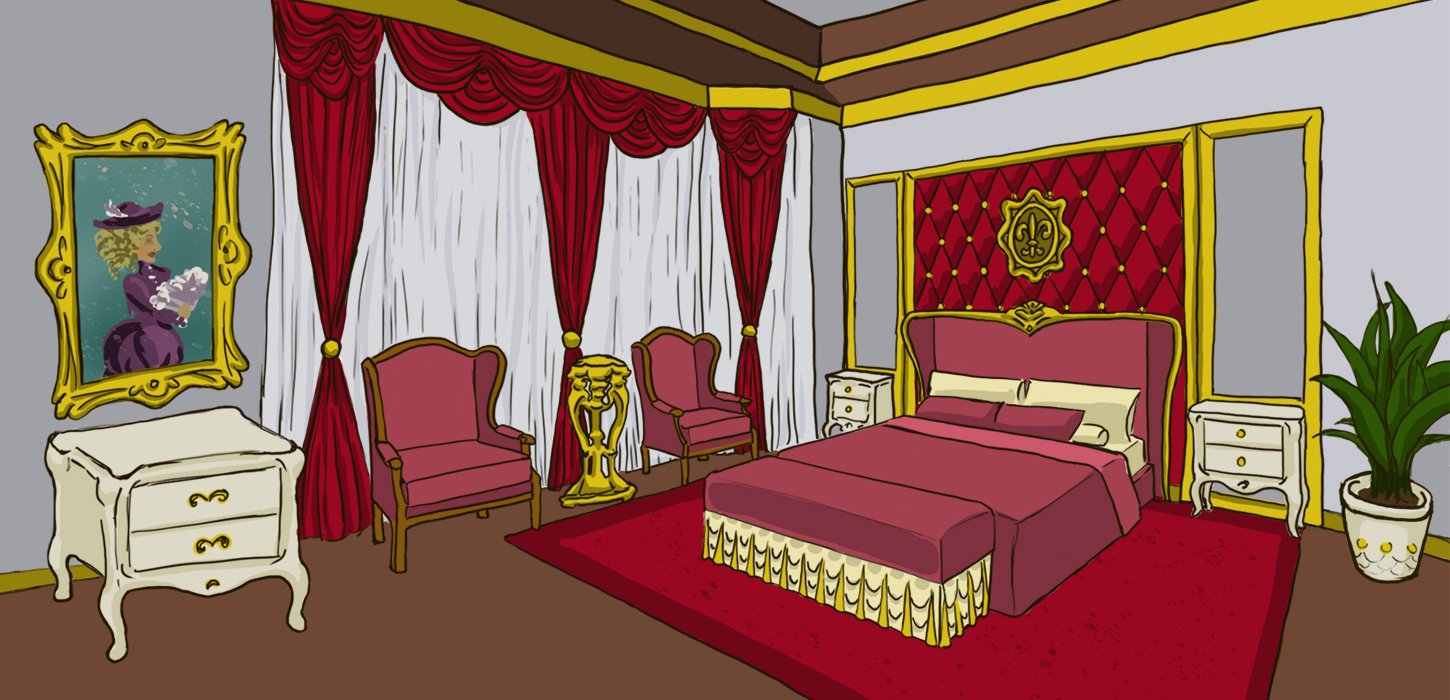
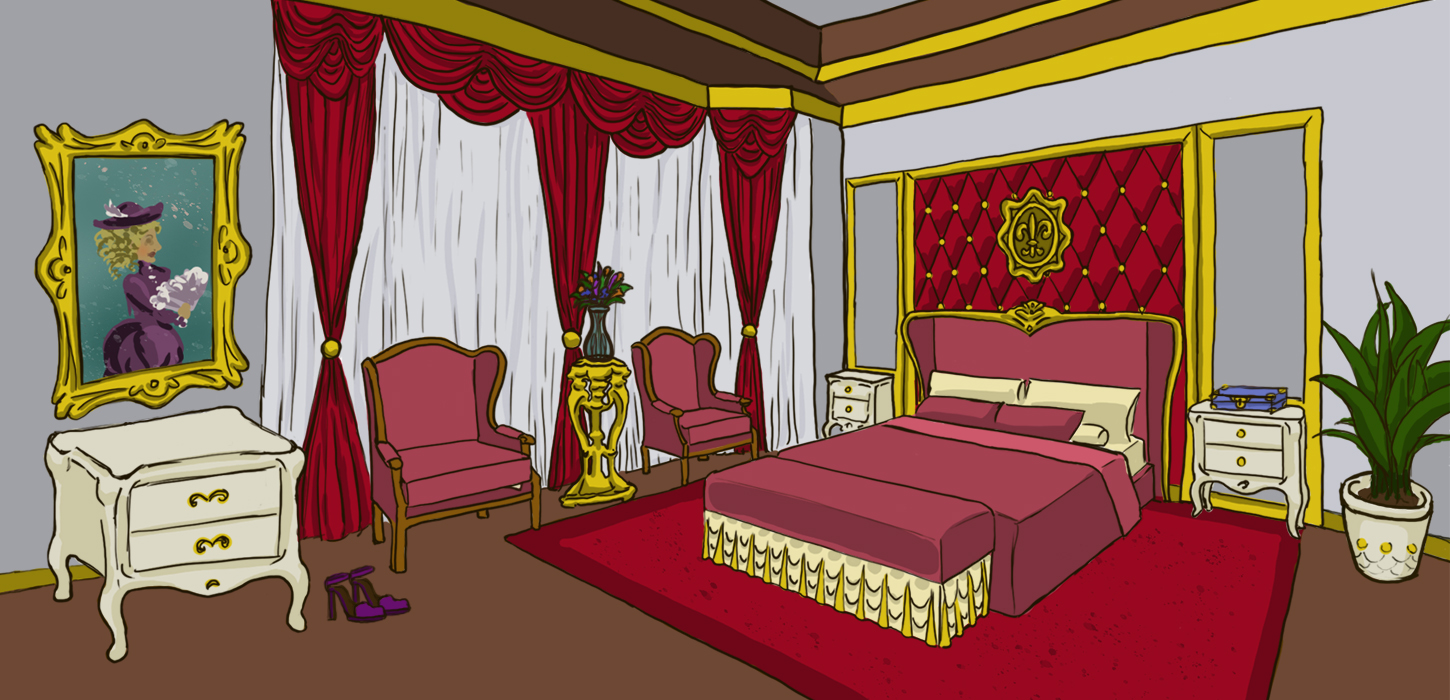
rooms-mapped

Changed region(s): [[0.3724, 0.36, 0.4345, 0.54], [0.2172, 0.81, 0.2793, 0.9], [0.8379, 0.54, 0.9, 0.6]]

diff --git a/client/src/components/Kitchen/index.js b/client/src/components/Kitchen/index.js
@@ -12,14 +12,19 @@ class Kitchen extends Component {
     map: {
       name: "my-map",
       areas: [
-      {name:"plant", coords:[2090,425,2067,521,2016,559,2034,637,2069,709,2063,804,2156,833,2174,728,2183,614,2182,505], shape:"poly"},
-      {name:"painting1", coords:[364,278,549,282,549,552,378,577], shape:"poly"},
-      {name:"drawer1", coords:[430,721,436,771,640,744,636,695], shape:"poly"},
-      {name:"drawer2", coords:[440,779,440,831,636,806,635,754], shape:"poly"},
-      {name:"drawer3", coords:[1377,575,1377,596,1426,602,1427,581], shape:"poly"},
-      {name:"drawer4", coords:[1379,622,1377,600,1422,608,1420,627], shape:"poly"},
-      {name:"drawer5", coords:[1871,627,1871,658,1979,670,1979,633], shape:"poly"},
-      {name:"drawer6", coords:[1874,664,1869,690,1977,705,1974,672], shape:"poly"},
+      {name:"chandelier", coords:[546,3,542,10,532,13,529,54,536,63,533,70,535,79,547,77,545,87,542,97,573,154,582,154,583,128,586,109,591,123,591,151,599,151,604,132,608,151,608,170,617,175,609,182,613,192,613,200,604,195,597,205,600,211,595,219,587,223,582,214,554,215,550,229,540,228,540,218,528,223,519,215,488,214,488,225,479,227,478,215,468,210,465,218,453,212,449,202,451,189,442,180,435,187,433,177,435,166,430,161,440,157,440,138,445,116,450,128,450,159,458,165,450,169,453,177,462,182,469,177,468,160,473,141,479,148,479,168,490,155,486,146,494,146,494,119,500,95,505,119,519,100,515,82,513,70,523,74,519,61,527,45,524,18,514,8,506,0], shape:"poly"},
+      {name:"apron", coords:[1310,474,1346,485,1376,506,1367,518,1333,533,1316,532,1280,519,1265,523,1261,561,1253,566,1257,520,1267,513,1252,508,1252,495], shape:"poly"},
+      {name:"pot", coords:[854,401,851,385,857,378,842,380,850,372,842,359,825,358,820,369,823,377,813,383,814,399,833,405,842,405], shape:"poly"},
+      {name:"windowkey", coords:[1133,137,1399,78,1390,447,1123,413], shape:"poly"},
+      {name:"window2", coords:[687,226,715,221,715,354,688,354], shape:"poly"},
+      {name:"painting2", coords:[784,143,888,102,879,235,774,248], shape:"poly"},
+      {name:"cabinet1", coords:[184,137,184,317,353,320,350,150], shape:"poly"},
+      {name:"cabinet2", coords:[181,137,182,317,100,317,102,129], shape:"poly"},
+      {name:"wine1", coords:[546,415,561,408,576,410,578,436,568,450,567,476,576,482,564,488,553,488,556,477,556,451,547,437], shape:"poly"},
+      {name:"wine2", coords:[497,387,509,379,519,382,522,396,517,407,514,429,522,434,515,439,505,439,506,429,506,414,499,406], shape:"poly"},
+      {name:"soup1", coords:[418,427,428,420,481,416,497,424,491,430,486,438,441,438,426,434], shape:"poly"},
+      {name:"soup2", coords:[436,470,446,459,465,454,523,453,545,461,545,470,532,477,524,484,468,488,458,481,444,479], shape:"poly"},
+      {name:"oven", coords:[728,432,729,468,816,507,832,519,820,524,819,557,873,580,875,480], shape:"poly"},
       ]
     },
     disabled: true

diff --git a/client/src/components/Garden/index.js b/client/src/components/Garden/index.js
@@ -12,14 +12,15 @@ class Garden extends Component {
     map: {
       name: "my-map",
       areas: [
-      {name:"plant", coords:[2090,425,2067,521,2016,559,2034,637,2069,709,2063,804,2156,833,2174,728,2183,614,2182,505], shape:"poly"},
-      {name:"painting1", coords:[364,278,549,282,549,552,378,577], shape:"poly"},
-      {name:"drawer1", coords:[430,721,436,771,640,744,636,695], shape:"poly"},
-      {name:"drawer2", coords:[440,779,440,831,636,806,635,754], shape:"poly"},
-      {name:"drawer3", coords:[1377,575,1377,596,1426,602,1427,581], shape:"poly"},
-      {name:"drawer4", coords:[1379,622,1377,600,1422,608,1420,627], shape:"poly"},
-      {name:"drawer5", coords:[1871,627,1871,658,1979,670,1979,633], shape:"poly"},
-      {name:"drawer6", coords:[1874,664,1869,690,1977,705,1974,672], shape:"poly"},
+      {name:"sheddoor", coords:[901,384,947,375,945,569,901,559], shape:"poly"},
+      {name:"shoe", coords:[788,566,796,555,805,564,799,571], shape:"poly"},
+      {name:"ladystatue", coords:[760,454,758,429,767,420,760,368,742,362,747,347,743,334,729,334,724,347,728,362,719,366,706,393,718,406,711,445,724,458], shape:"poly"},
+      {name:"pearls", coords:[532,660,540,668,551,663,558,650,549,650,542,657], shape:"poly"},
+      {name:"watch", coords:[243,588,243,579,257,579,259,588], shape:"poly"},
+      {name:"manstatue", coords:[45,465,15,456,4,456,4,424,4,388,15,379,11,368,20,356,35,362,33,375,43,394], shape:"poly"},
+      {name:"fountain", coords:[487,602,478,595,478,575,487,566,491,553,460,543,404,534,399,504,399,486,387,481,404,468,391,455,414,455,419,445,437,445,445,435,394,430,385,419,399,409,384,400,381,382,392,373,384,368,403,364,413,352,401,349,394,349,382,344,386,332,386,322,378,296,372,318,368,331,372,343,360,350,348,343,340,353,354,363,368,366,360,375,371,384,368,399,353,409,368,419,362,432,307,434,321,445,332,445,340,453,363,457,353,466,363,477,358,491,355,507,350,537,296,541,266,558,266,569,272,576,271,599,266,605,268,622,303,635,373,635,445,635,482,623], shape:"poly"},
+      {name:"tree1", coords:[564,487,562,432,590,411,612,404,627,396,632,370,618,357,637,347,629,332,619,329,606,320,609,300,592,283,588,269,573,266,556,247,537,255,522,263,509,263,495,283,478,292,469,306,460,324,441,323,437,339,451,354,460,381,471,404,480,413,489,411,496,424,517,431,517,452,506,474,512,483,531,477,550,466], shape:"poly"},
+      {name:"tree2", coords:[254,479,248,436,250,426,270,431,284,412,296,395,304,378,312,365,307,355,323,333,317,317,300,318,303,299,285,286,267,279,245,276,225,272,207,262,179,282,171,292,163,281,145,290,145,297,126,303,127,313,115,326,122,344,126,365,126,383,129,400,138,395,140,421,161,426,180,422,199,432,205,437,203,465,223,472,231,467], shape:"poly"},
       ]
     },
     disabled: true

diff --git a/client/src/components/Library/index.js b/client/src/components/Library/index.js
@@ -12,15 +12,20 @@ class Library extends Component {
     map: {
       name: "my-map",
       areas: [
-      {name:"plant", coords:[2090,425,2067,521,2016,559,2034,637,2069,709,2063,804,2156,833,2174,728,2183,614,2182,505], shape:"poly"},
-      {name:"painting1", coords:[364,278,549,282,549,552,378,577], shape:"poly"},
-      {name:"drawer1", coords:[430,721,436,771,640,744,636,695], shape:"poly"},
-      {name:"drawer2", coords:[440,779,440,831,636,806,635,754], shape:"poly"},
-      {name:"drawer3", coords:[1377,575,1377,596,1426,602,1427,581], shape:"poly"},
-      {name:"drawer4", coords:[1379,622,1377,600,1422,608,1420,627], shape:"poly"},
-      {name:"drawer5", coords:[1871,627,1871,658,1979,670,1979,633], shape:"poly"},
-      {name:"drawer6", coords:[1874,664,1869,690,1977,705,1974,672], shape:"poly"},
-      ]
+      {name:"pillow", coords:[71,499,99,488,104,473,162,468,209,471,253,463,272,463,263,513,258,537,263,573,258,601,263,613,257,622,243,622,230,626,222,626,222,640,227,650,222,662,209,667,202,659,54,669,35,665,12,667,21,655,29,639,38,627,58,563,71,540,75,521,76,505], shape:"poly"},
+      {name:"blanket", coords:[398,505,391,534,389,556,381,575,392,582,398,591,406,592,403,634,417,637,422,620,430,618,437,574,451,547,474,518,513,499,546,494,574,495,600,514,606,543,614,561,628,573,633,590,647,593,660,583,663,564,660,552,661,526,661,515,655,505,658,490,654,479,642,465,645,447,631,439,627,428,609,417,581,413,538,412,506,421,474,436,436,463], shape:"poly"},
+      {name:"globe", coords:[634,64,624,71,631,76,622,78,608,75,596,78,588,93,588,107,593,117,588,122,595,126,602,131,611,137,624,131,632,123,642,109,646,96,643,78], shape:"poly"},
+      {name:"lamp", coords:[692,240,697,250,693,260,701,263,716,304,706,311,696,314,696,324,706,337,706,345,711,350,693,355,675,352,681,342,684,331,688,318,683,311,667,306,684,264,688,251], shape:"poly"},
+      {name:"papers", coords:[783,351,775,358,763,357,760,363,745,360,737,366,727,357,734,343,745,346], shape:"poly"},
+      {name:"painting3", coords:[877,154,938,149,937,203,878,204], shape:"poly"},
+      {name:"painting4", coords:[878,255,939,250,937,317,879,314], shape:"poly"},
+      {name:"safe", coords:[494,277,491,327,576,320,576,278], shape:"poly"},
+      {name:"books1", coords:[510,168,509,179,547,183,540,172], shape:"poly"},
+      {name:"books2", coords:[389,290,476,290,478,330,389,338], shape:"poly"},
+      {name:"books3", coords:[606,247,637,242,637,264,609,267], shape:"poly"},
+      {name:"books4", coords:[390,410,481,399,482,424,432,427,389,425], shape:"poly"},
+      {name:"rug", coords:[920,572,741,696,1226,696,1245,661], shape:"poly"},
+    ]
     },
     disabled: true
   };

diff --git a/client/src/components/Bedroom/index.js b/client/src/components/Bedroom/index.js
@@ -13,14 +13,19 @@ class Bedroom extends Component {
     map: {
       name: "my-map",
       areas: [
-      {name:"plant", coords:[2090,425,2067,521,2016,559,2034,637,2069,709,2063,804,2156,833,2174,728,2183,614,2182,505], shape:"poly"},
-      {name:"painting1", coords:[364,278,549,282,549,552,378,577], shape:"poly"},
-      {name:"drawer1", coords:[430,721,436,771,640,744,636,695], shape:"poly"},
-      {name:"drawer2", coords:[440,779,440,831,636,806,635,754], shape:"poly"},
-      {name:"drawer3", coords:[1377,575,1377,596,1426,602,1427,581], shape:"poly"},
-      {name:"drawer4", coords:[1379,622,1377,600,1422,608,1420,627], shape:"poly"},
-      {name:"drawer5", coords:[1871,627,1871,658,1979,670,1979,633], shape:"poly"},
-      {name:"drawer6", coords:[1874,664,1869,690,1977,705,1974,672], shape:"poly"},
+      {name:"plant", coords:[1386,284,1413,335,1447,324,1426,367,1448,361,1447,412,1420,433,1444,438,1413,453,1410,480,1430,497,1429,516,1415,576,1380,582,1357,570,1343,507,1340,484,1372,469,1361,448,1337,438,1316,438,1352,416,1334,391,1311,382,1338,373,1354,387,1345,356,1321,324,1358,346], shape:"poly"},
+      {name:"painting1", coords:[74,158,212,158,214,358,80,384], shape:"poly"},
+      {name:"crest", coords:[1034,187,1044,197,1065,201,1060,220,1073,237,1061,252,1065,269,1047,270,1034,283,1024,274,1009,275,1009,255,997,237,1003,224,1001,201,1021,201], shape:"poly"},
+      {name:"shoes", coords:[323,582,373,568,359,582,395,595,408,606,389,613,363,622,348,617,337,595,332,623], shape:"poly"},
+      {name:"letter", coords:[508,486,522,484,522,496], shape:"poly"},
+      {name:"jewlery", coords:[1210,408,1208,394,1225,385,1288,388,1285,407,1269,413], shape:"poly"},
+      {name:"flowers", coords:[596,265,604,272,619,274,619,284,631,289,622,295,623,304,606,307,606,322,614,352,605,362,590,362,583,344,591,326,583,307,569,295,583,281,583,270], shape:"poly"},
+      {name:"drawer1", coords:[130,489,127,532,277,514,280,469], shape:"poly"},
+      {name:"drawer2", coords:[127,536,127,573,272,555,273,518], shape:"poly"},
+      {name:"drawer3", coords:[834,383,834,394,869,401,868,387], shape:"poly"},
+      {name:"drawer4", coords:[833,401,832,415,864,422,869,405], shape:"poly"},
+      {name:"drawer5", coords:[1205,422,1205,442,1281,450,1281,428], shape:"poly"},
+      {name:"drawer6", coords:[1207,446,1203,471,1283,477,1285,453], shape:"poly"},
       ]
     },
     disabled: true

diff --git a/client/src/components/Login/index.js b/client/src/components/Login/index.js
@@ -57,7 +57,7 @@ class Login extends Component {
         <div className="translucent-form-overlay col-md-12">
           <div
             style={{
-              marginTop: "1rem",
+              marginTop: "25px",
               marginRight: "1000px",
               borderRadius: "25px",
               backgroundColor: "rgba(54, 54, 54, 0.8)",
